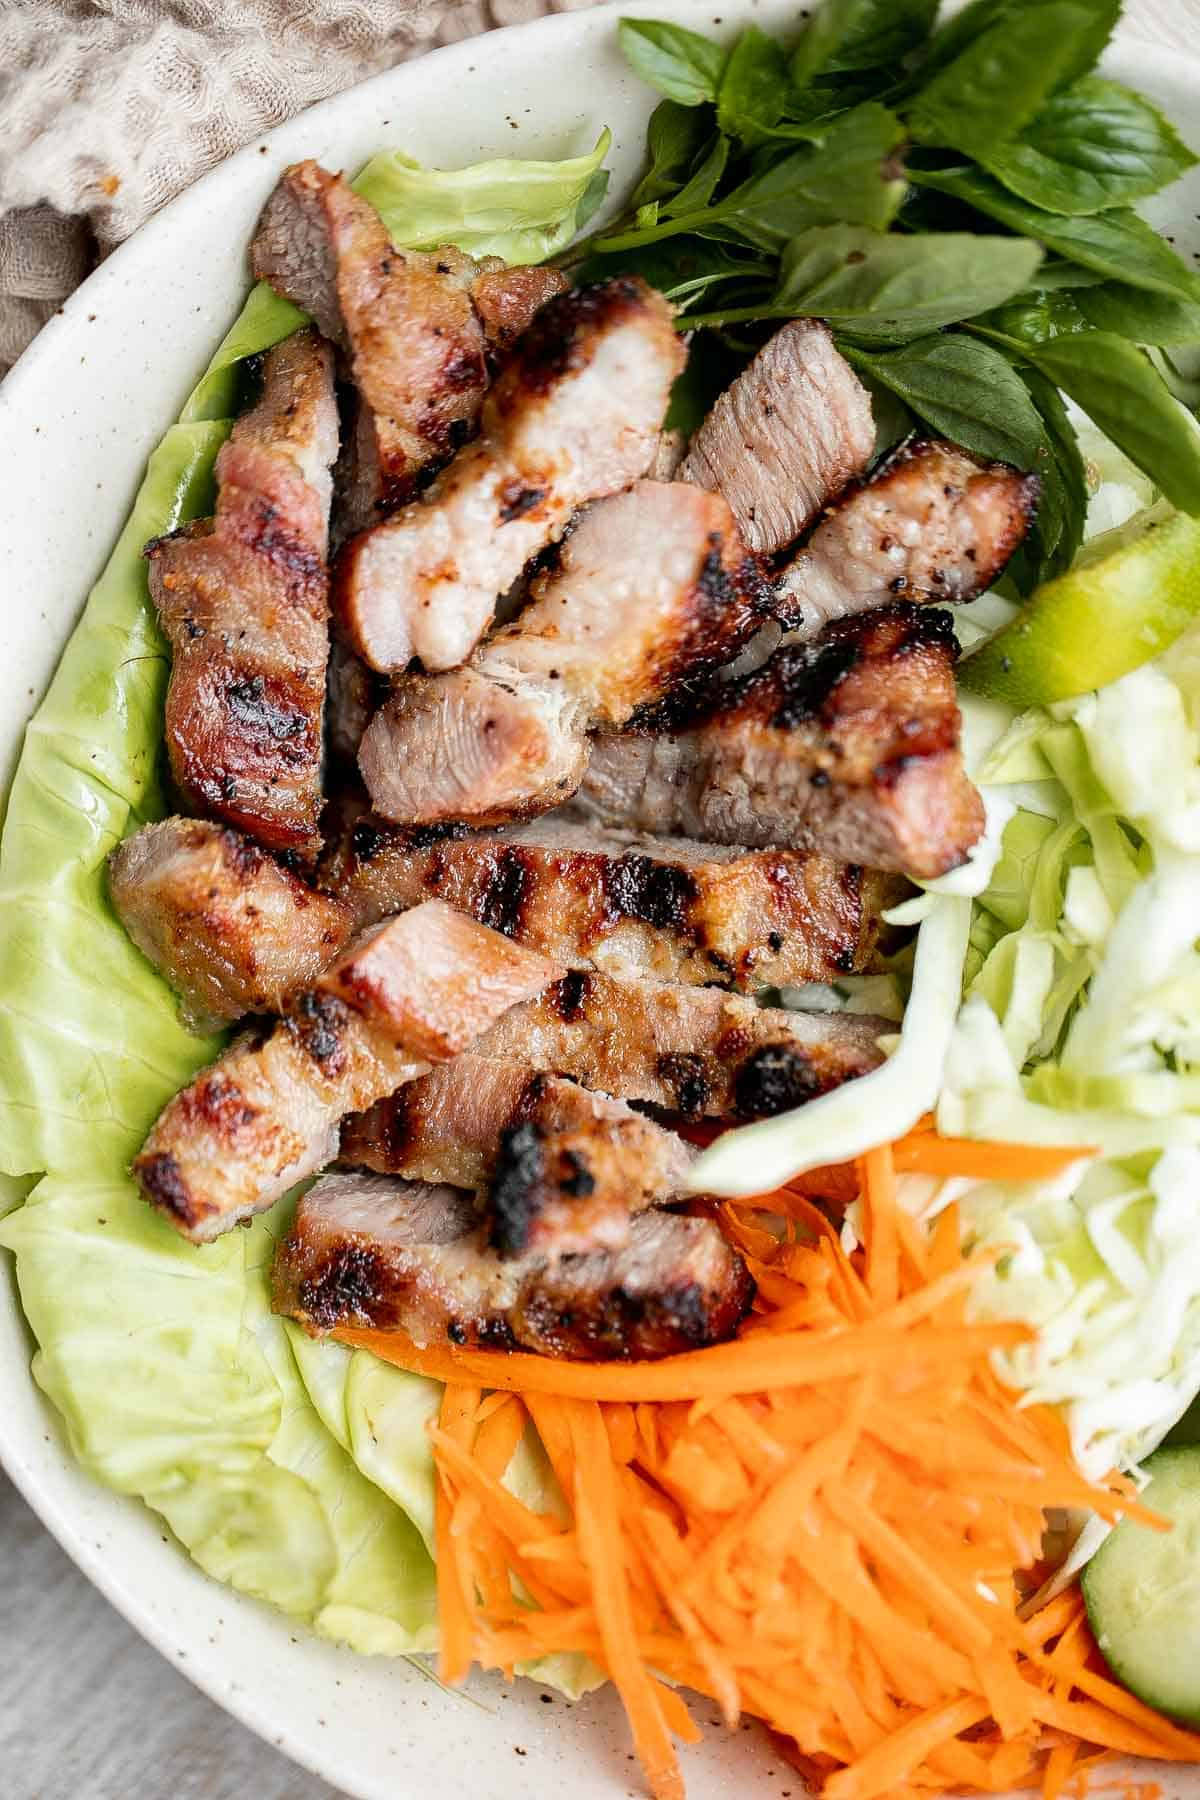
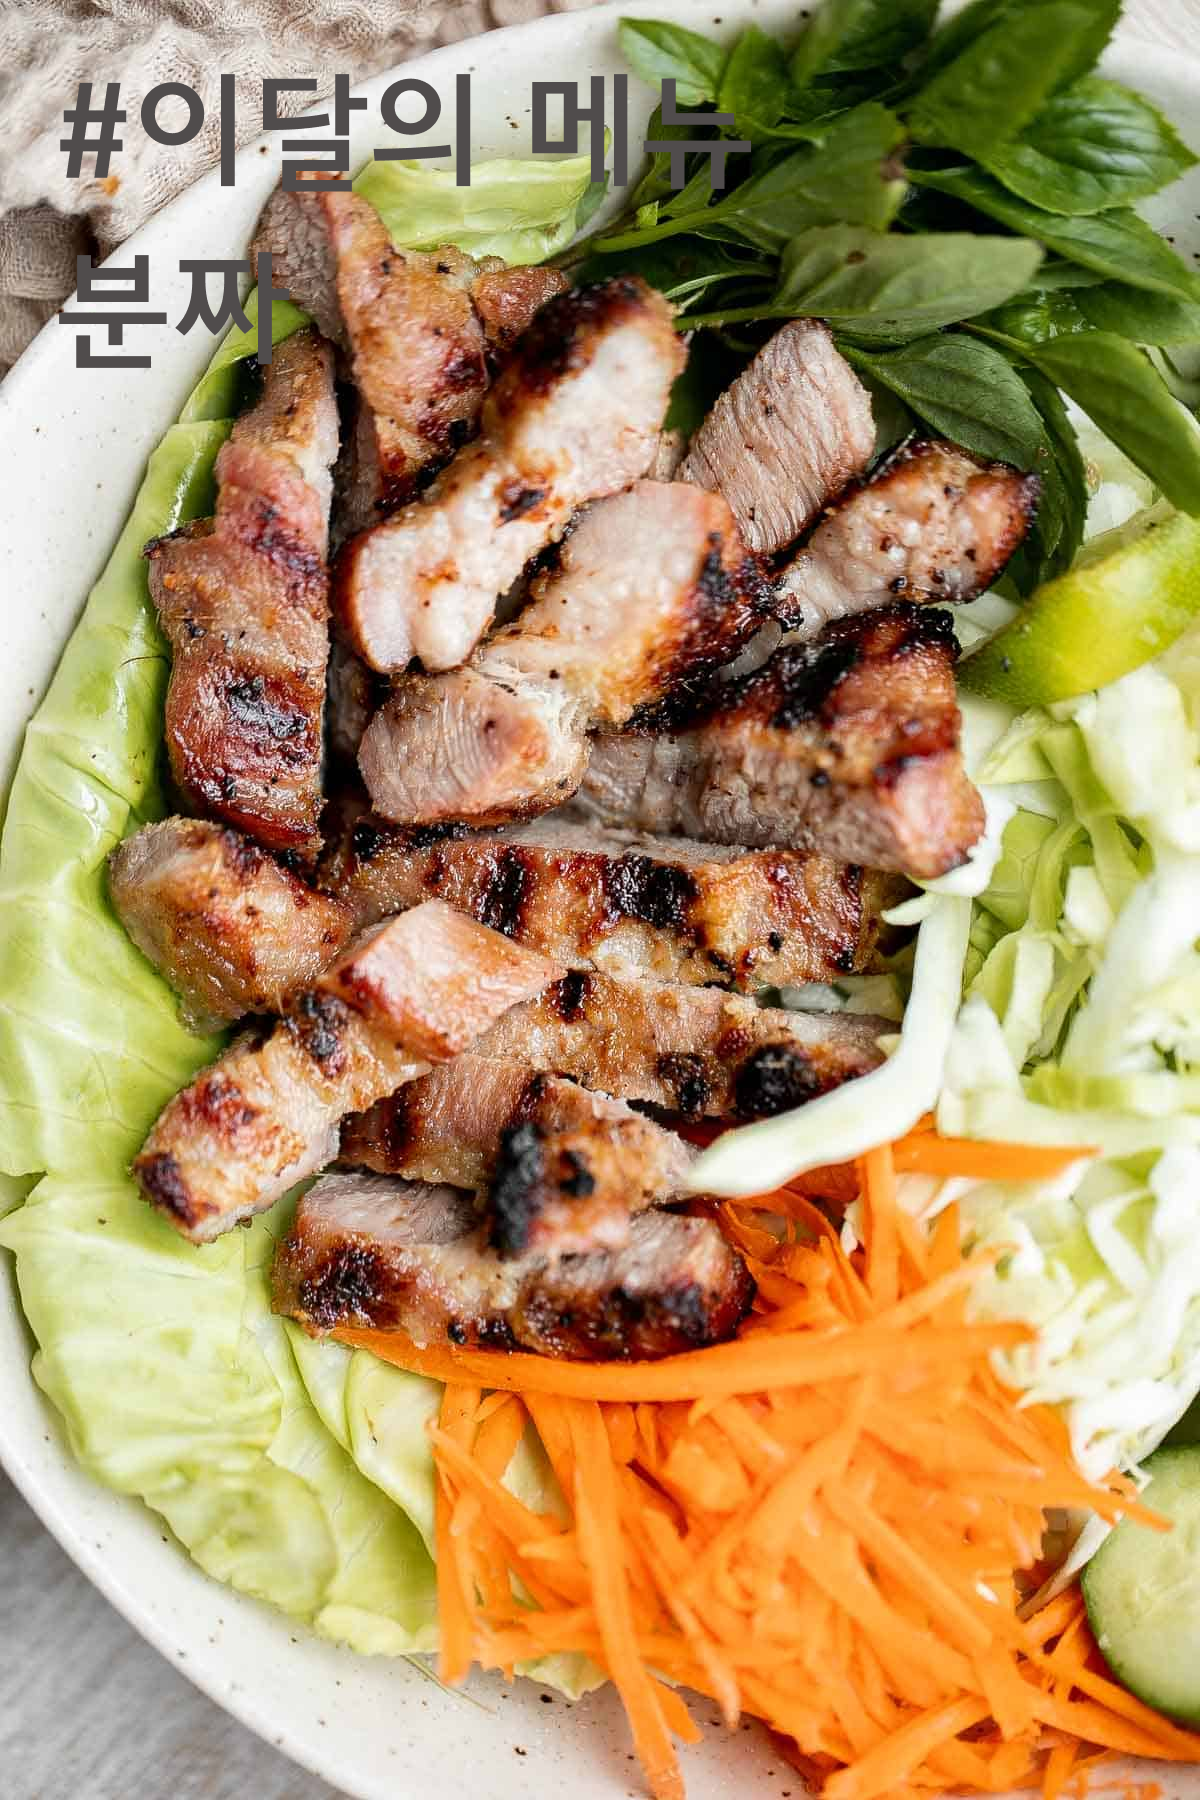
feat: modify

Changed region(s): [[0.0308, 0.0311, 0.4008, 0.2178], [0.4317, 0.0311, 0.6167, 0.1244]]

diff --git a/src/public/js/slide.js b/src/public/js/slide.js
@@ -1,27 +1,28 @@
-let slideIndex = 0;
-showSlides();
+let slideIndex = 1;
+showSlides(slideIndex);
 
 // Next/previous controls
 function plusSlides(n) {
-    showSlides(slideIndex += n);
-}   
+  showSlides(slideIndex += n);
+}
 
 // Thumbnail image controls
 function currentSlide(n) {
-    showSlides(slideIndex = n);
+  showSlides(slideIndex = n);
 }
 
-function showSlides() {
-    let i;
-    let slides = document.getElementsByClassName("mySlides");
-
-    for (i = 0; i < slides.length; i++) {
-        slides[i].style.display = "none";
-    }
-
-    slideIndex++;
-    
-    if (slideIndex > slides.length) {slideIndex = 1}
-    slides[slideIndex-1].style.display = "block";
-    setTimeout(showSlides, 9000); 
+function showSlides(n) {
+  let i;
+  let slides = document.getElementsByClassName("mySlides");
+  let dots = document.getElementsByClassName("dot");
+  if (n > slides.length) {slideIndex = 1}
+  if (n < 1) {slideIndex = slides.length}
+  for (i = 0; i < slides.length; i++) {
+    slides[i].style.display = "none";
+  }
+  for (i = 0; i < dots.length; i++) {
+    dots[i].className = dots[i].className.replace(" active", "");
+  }
+  slides[slideIndex-1].style.display = "block";
+  dots[slideIndex-1].className += " active";
 }

diff --git a/src/public/css/menu.css b/src/public/css/menu.css
@@ -195,6 +195,22 @@ form .fa-solid {
     margin: 0 auto 30px;
 }
 
+.keyword {
+    font-family: 'Nanum Gothic', sans-serif;
+    font-weight: 700;
+    font-size: 20px;
+    font-weight: 700;
+    line-height: 20px;
+    text-align: center;
+}
+
+.keyword span {
+    font-family: 'Nanum Gothic', sans-serif;
+    font-weight: 700;
+    font-size: 23px;
+    font-weight: 700;
+}
+
 .total {
     font-family: 'Nanum Gothic', sans-serif;
     font-weight: 700;

diff --git a/src/public/css/main.css b/src/public/css/main.css
@@ -201,8 +201,9 @@ hr {
     height: 30px;
     width: 30px;
     position: relative;
-    bottom: 22px;
-    left: 45px;
+    top: 25px;
+    right: 10px; 
+    float: right;
     cursor: pointer;
 }
 

diff --git a/src/public/css/mealkit.css b/src/public/css/mealkit.css
@@ -93,7 +93,7 @@
     position: relative;
     top: 30%;
     max-width: 100%;
-    margin: 0 auto 350px;
+    margin: 0 auto 500px;
 }
 
 .container5_txt {
